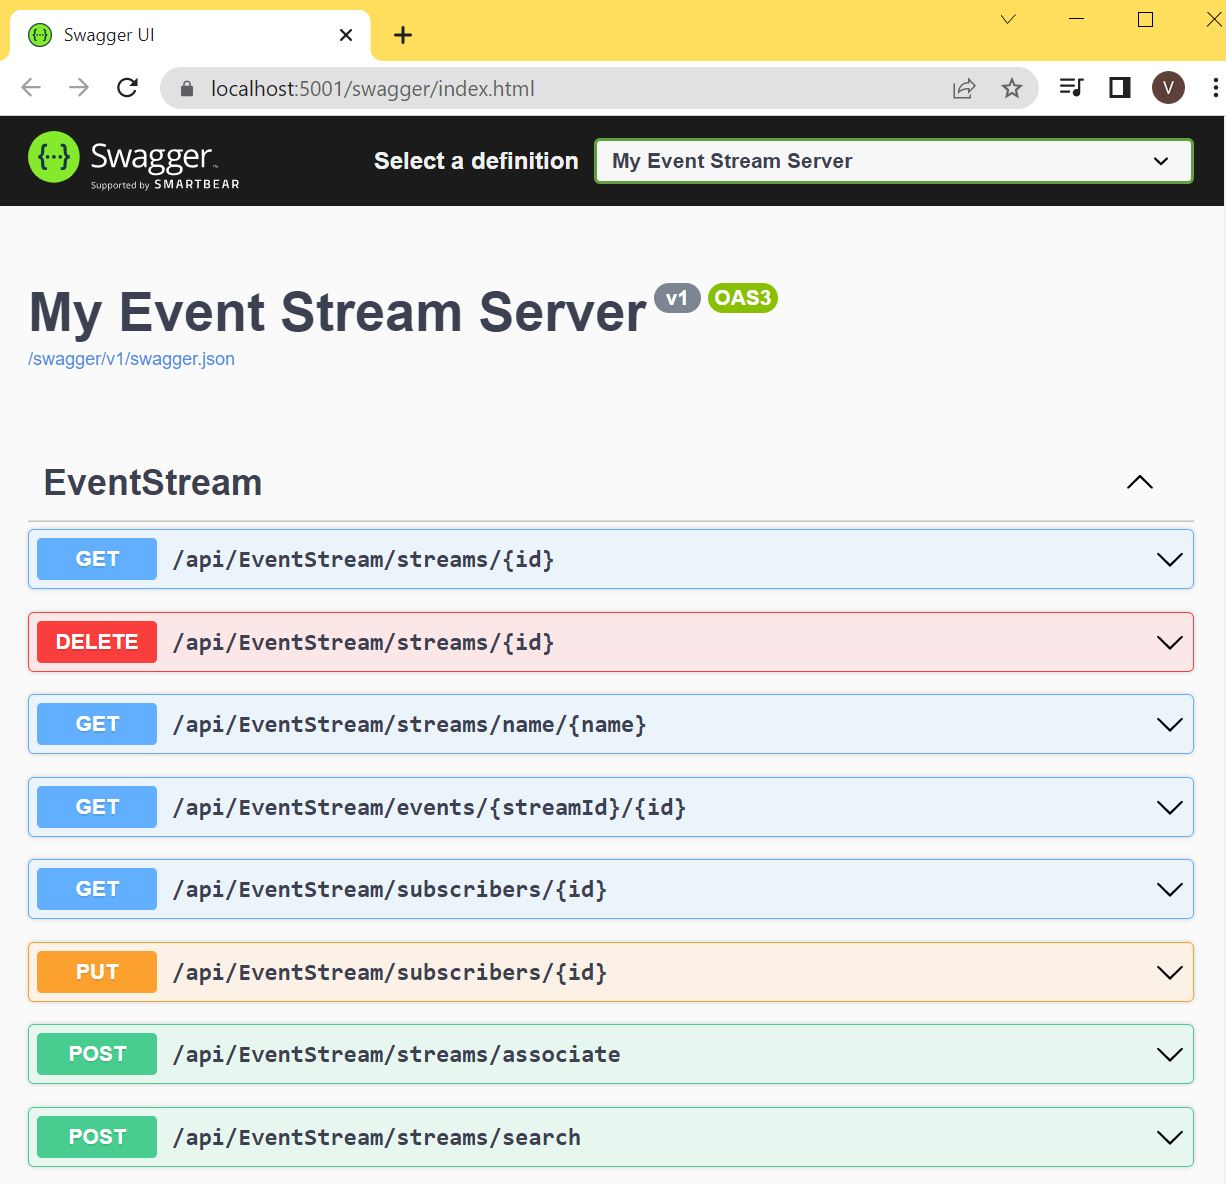
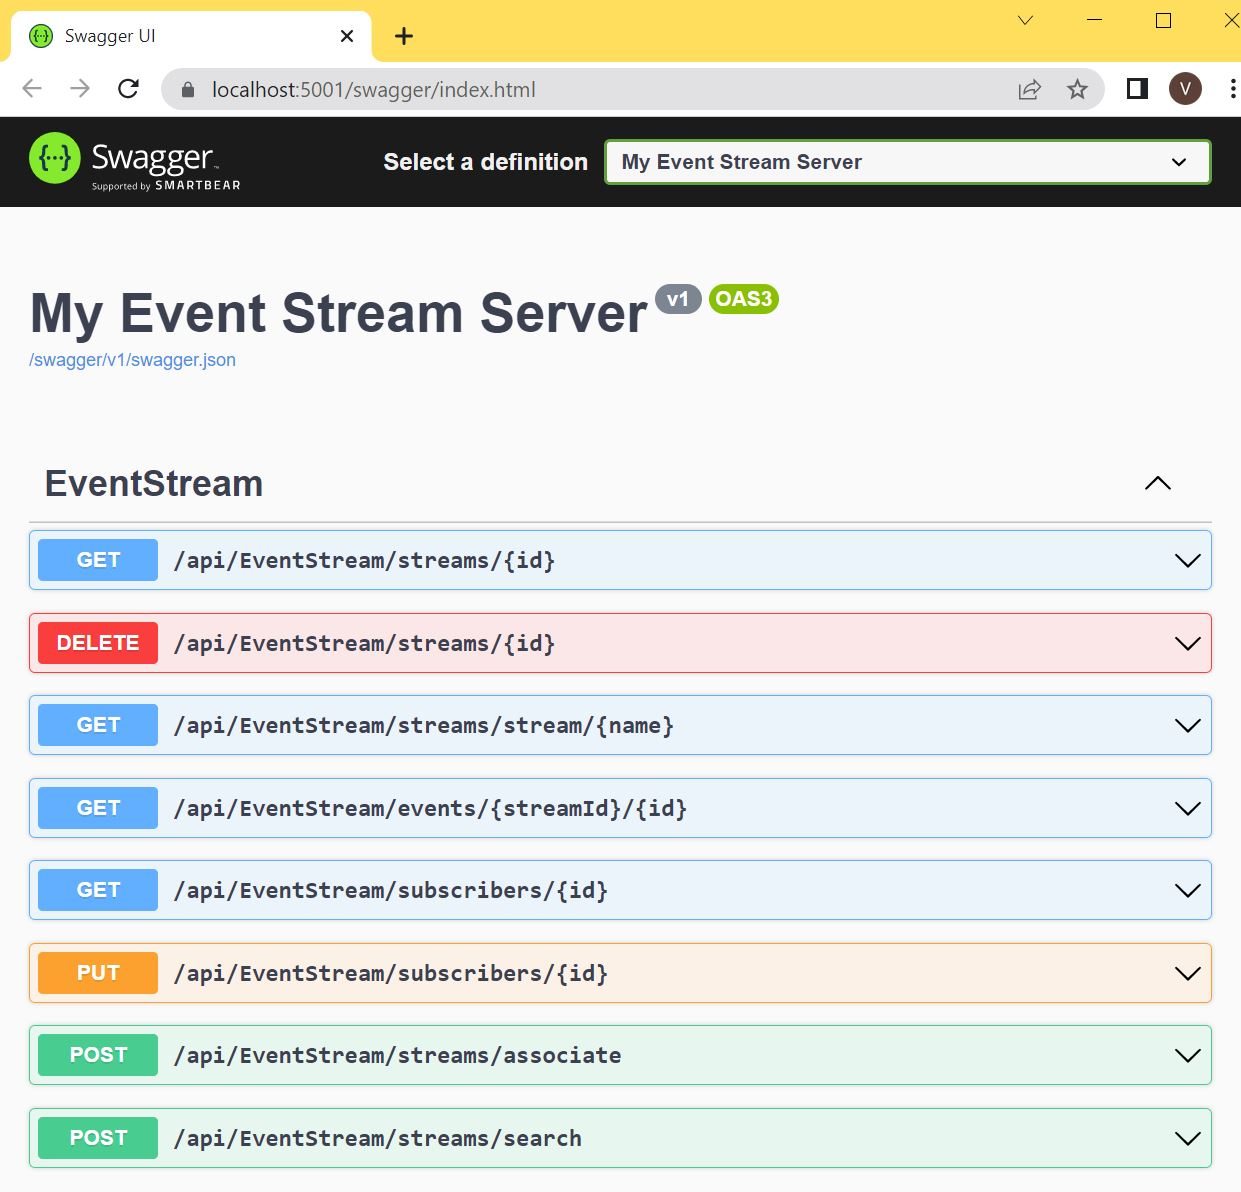
minor refactoring n image update.

diff --git a/AspNetCore.SignalR.EventStream/EventStreamExtensions.cs b/AspNetCore.SignalR.EventStream/EventStreamExtensions.cs
@@ -87,7 +87,7 @@ namespace AspNetCore.SignalR.EventStream
 
         public static IApplicationBuilder UseEventStream(this IApplicationBuilder app)
         {
-            var config = app.ApplicationServices.GetService<IConfiguration>();
+            var config = app.ApplicationServices.GetServiceOrNull<IConfiguration>();
             var secretKey = config["EventStreamSecretKey"];
 
             var repository = app.ApplicationServices.GetServiceOrNull<IRepository>();

diff --git a/AspNetCore.SignalR.EventStream/Controllers/EventStreamController.cs b/AspNetCore.SignalR.EventStream/Controllers/EventStreamController.cs
@@ -40,7 +40,7 @@ namespace AspNetCore.SignalR.EventStream.Controllers
             }            
         }
 
-        [HttpGet("streams/name/{name}")]
+        [HttpGet("streams/stream/{name}")]
         public async Task<IActionResult> GetStream(string name)
         {
             try
